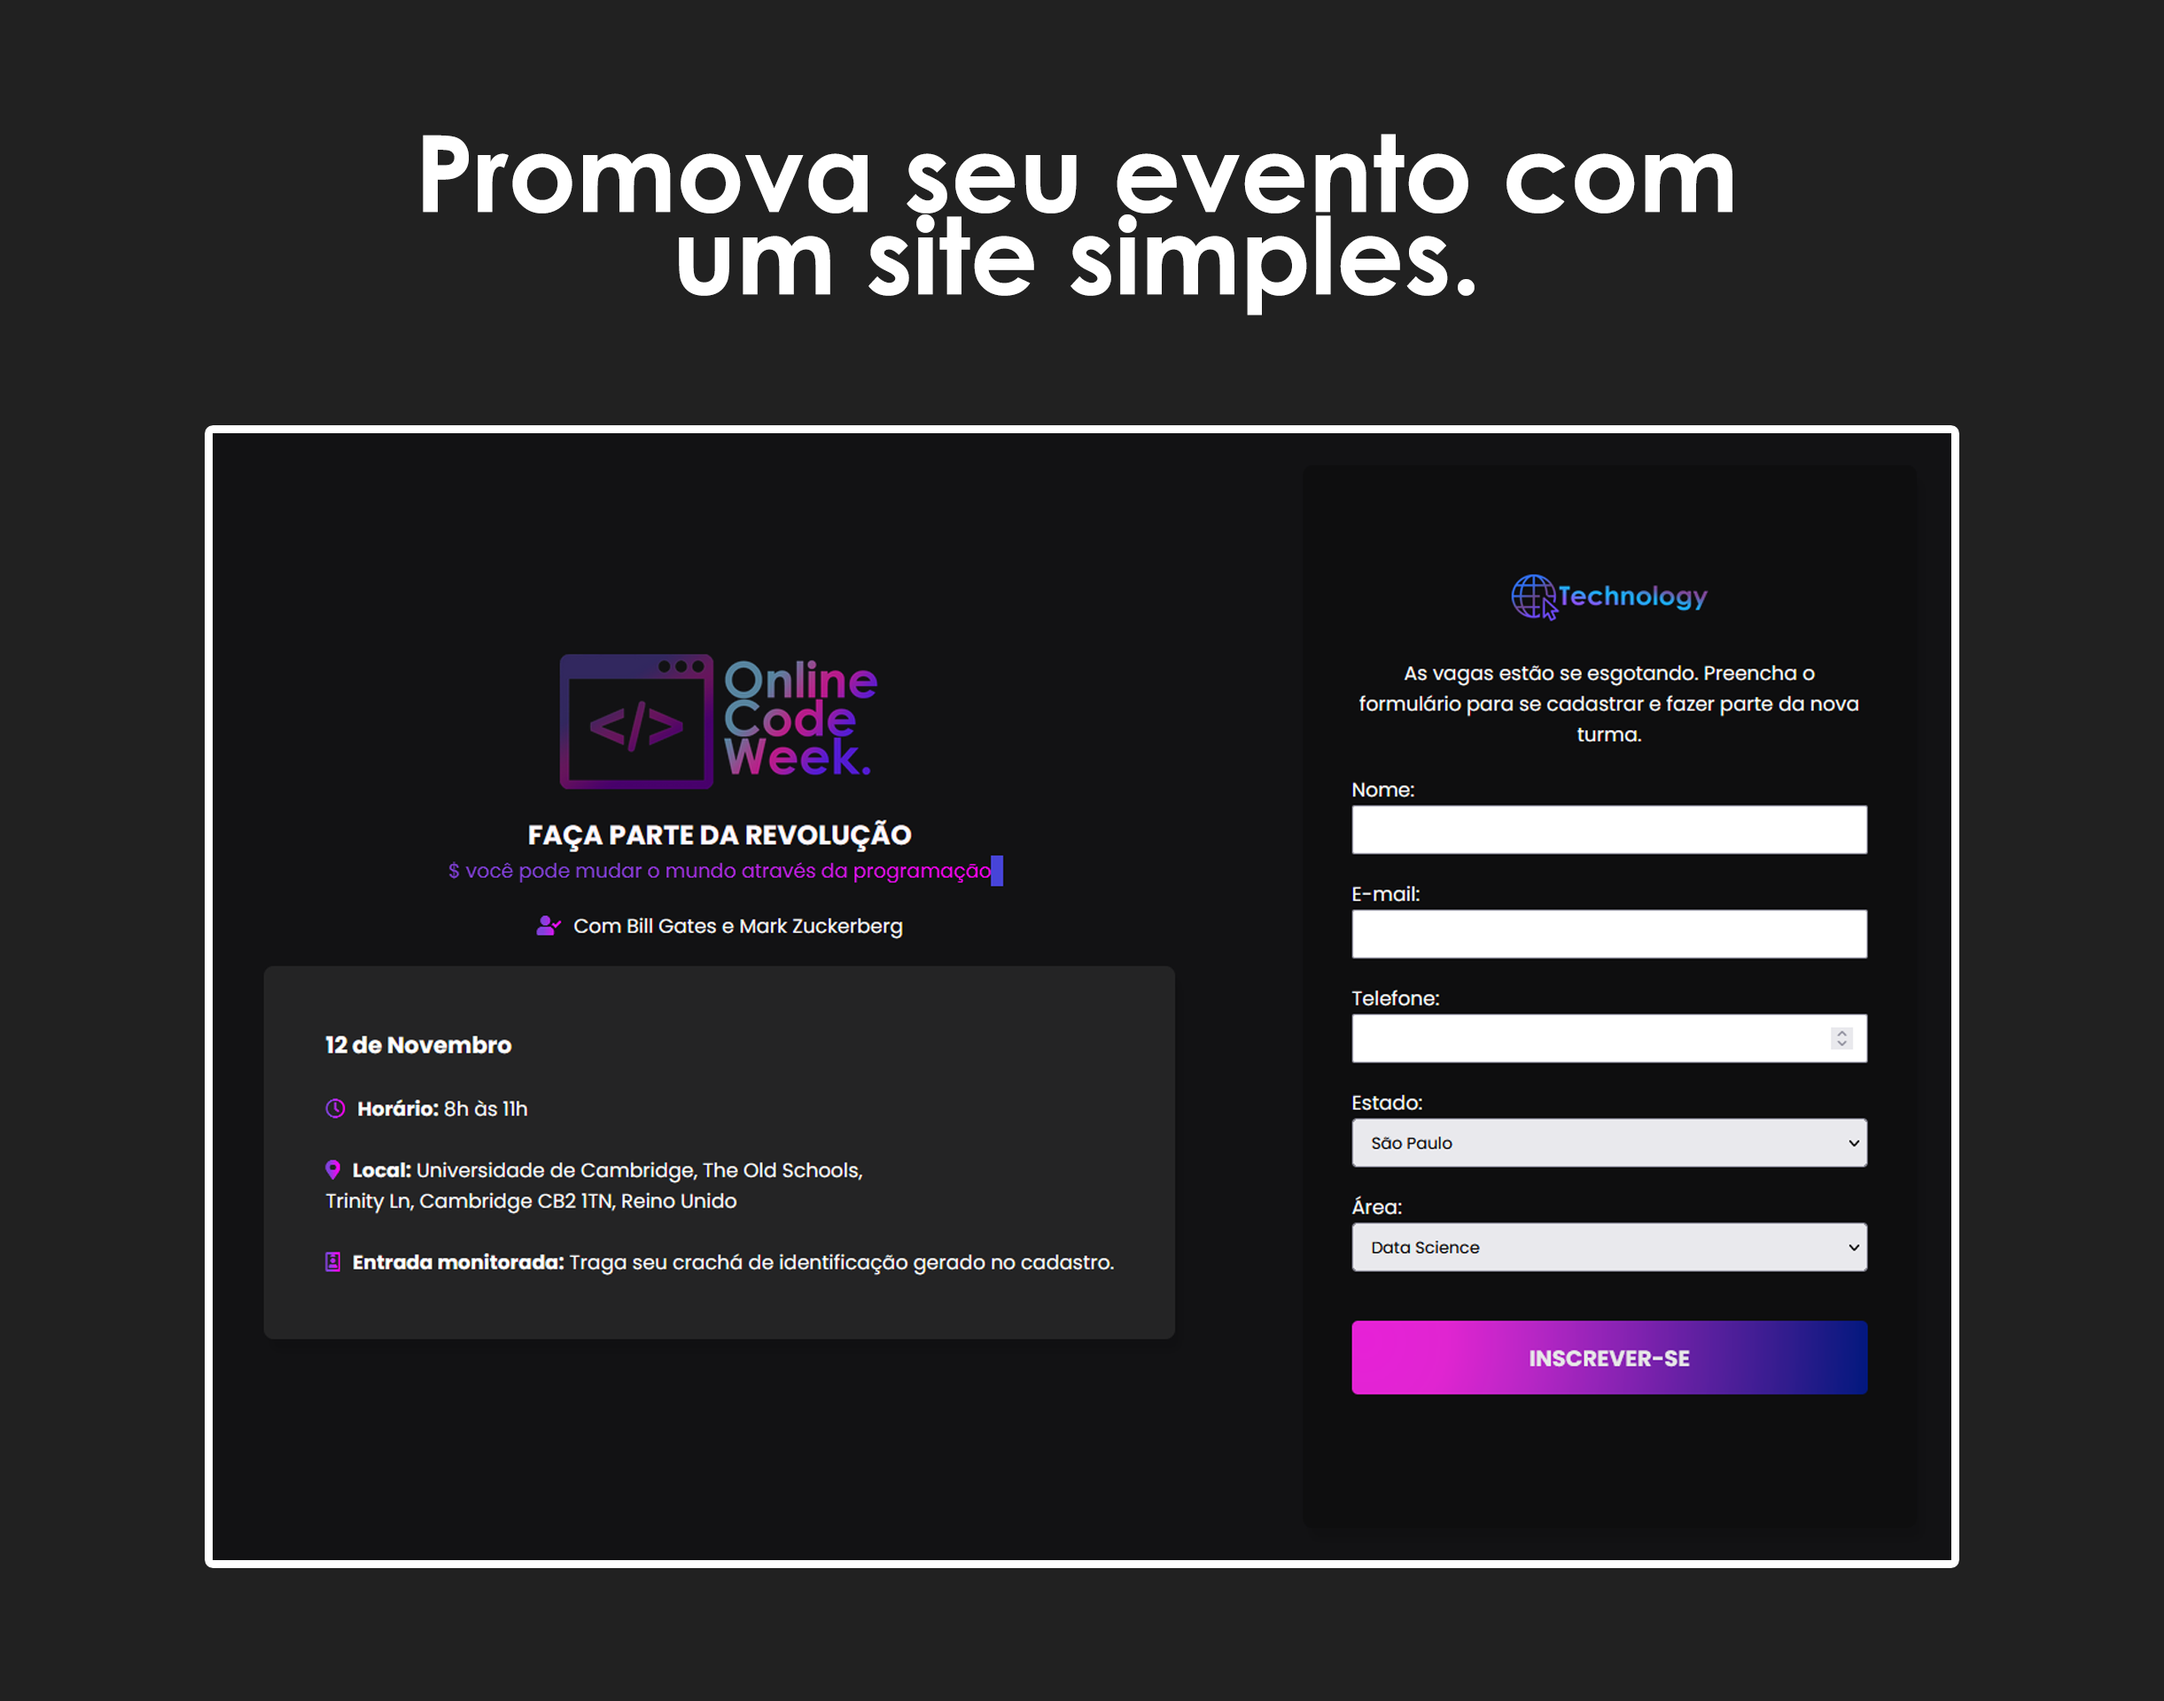
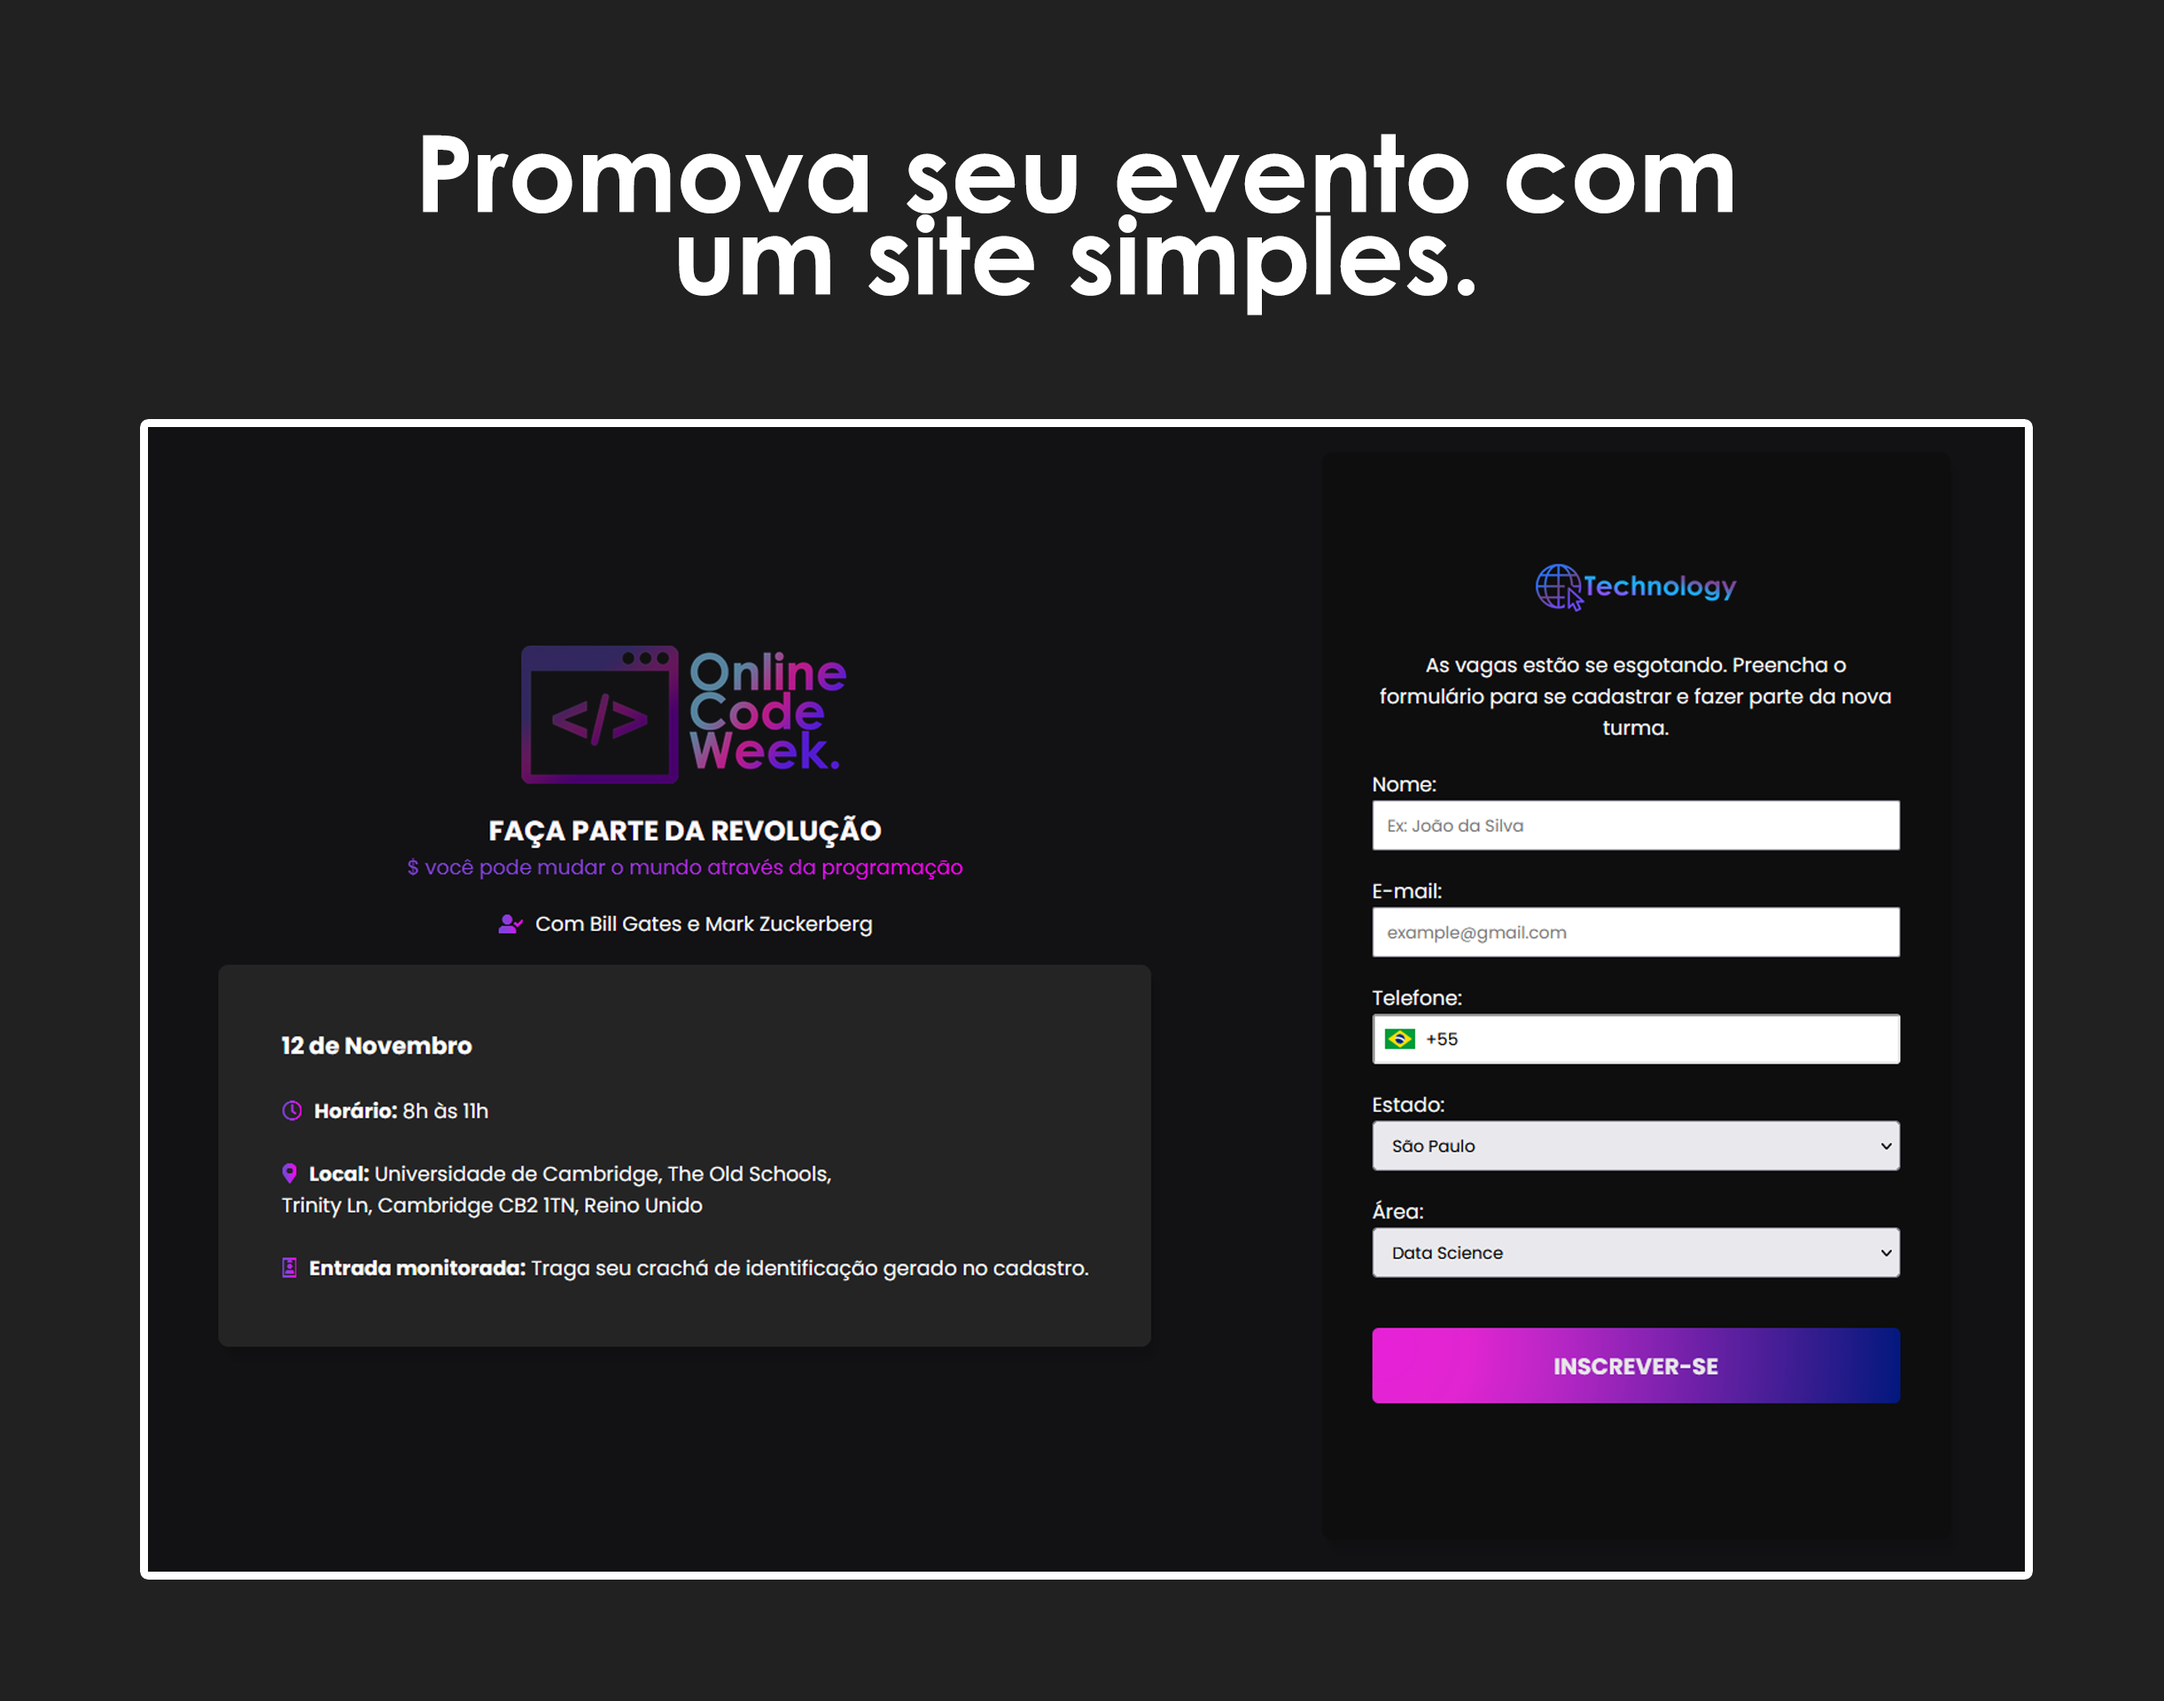
added phone input component

diff --git a/src/styles/PhoneInput.scss b/src/styles/PhoneInput.scss
@@ -1,0 +1,153 @@
+/* CSS variables. */
+
+@import './custom_colors.scss';
+
+:root {
+	--PhoneInput-color--focus: $custom-purple;
+	--PhoneInputInternationalIconPhone-opacity: 0.8;
+	--PhoneInputInternationalIconGlobe-opacity: 0.65;
+	--PhoneInputCountrySelect-marginRight: 0.35em;
+	--PhoneInputCountrySelectArrow-width: 0.3em;
+	
+	--PhoneInputCountrySelectArrow-borderWidth: 1px;
+	--PhoneInputCountrySelectArrow-opacity: 1;
+	--PhoneInputCountrySelectArrow-color: inherit;
+	--PhoneInputCountrySelectArrow-color--focus: var(--PhoneInput-color--focus);
+	--PhoneInputCountrySelectArrow-transform: rotate(45deg);
+	--PhoneInputCountryFlag-aspectRatio: 1.5;
+	--PhoneInputCountryFlag-height: 1em;
+	--PhoneInputCountryFlag-borderWidth: 1px;
+	--PhoneInputCountryFlag-borderColor: $custom-purple;
+	--PhoneInputCountryFlag-borderColor--focus: var(--PhoneInput-color--focus);
+	--PhoneInputCountryFlag-backgroundColor--loading: rgba(0,0,0,0.1);
+}
+
+.PhoneInput {
+	/* This is done to stretch the contents of this component. */
+	display: flex;
+	align-items: center;
+
+	margin-left: -5px;
+}
+
+.PhoneInputInput {
+	/* The phone number input stretches to fill all empty space */
+	flex: 1;
+	/* The phone number input should shrink
+	   to make room for the extension input */
+	min-width: 0;
+	
+	padding-left: 40px !important;
+
+	border: 2;
+	border-radius: 3px;
+}
+
+.PhoneInputCountryIcon {
+	width: calc(var(--PhoneInputCountryFlag-height) * var(--PhoneInputCountryFlag-aspectRatio));
+	height: var(--PhoneInputCountryFlag-height);
+
+	margin-top: 40px;
+	position: absolute;
+	margin-left: 15px;
+}
+
+.PhoneInputCountryIcon--square {
+	width: var(--PhoneInputCountryFlag-height);
+}
+
+.PhoneInputCountryIcon--border {
+	/* Removed `background-color` because when an `<img/>` was still loading
+	   it would show a dark gray rectangle. */
+	/* For some reason the `<img/>` is not stretched to 100% width and height
+	   and sometime there can be seen white pixels of the background at top and bottom. */
+	background-color: var(--PhoneInputCountryFlag-backgroundColor--loading);
+	/* Border is added via `box-shadow` because `border` interferes with `width`/`height`. */
+	/* For some reason the `<img/>` is not stretched to 100% width and height
+	   and sometime there can be seen white pixels of the background at top and bottom,
+	   so an additional "inset" border is added. */
+	box-shadow: 0 0 0 var(--PhoneInputCountryFlag-borderWidth) var(--PhoneInputCountryFlag-borderColor),
+		inset 0 0 0 var(--PhoneInputCountryFlag-borderWidth) var(--PhoneInputCountryFlag-borderColor);
+}
+
+.PhoneInputCountryIconImg {
+	/* Fixes weird vertical space above the flag icon. */
+	/* https://gitlab.com/catamphetamine/react-phone-number-input/-/issues/7#note_348586559 */
+	display: block;
+	/* 3rd party <SVG/> flag icons won't stretch if they have `width` and `height`.
+	   Also, if an <SVG/> icon's aspect ratio was different, it wouldn't fit too. */
+	width: 100%;
+	height: 100%;
+}
+
+.PhoneInputInternationalIconPhone {
+	opacity: var(--PhoneInputInternationalIconPhone-opacity);
+}
+
+.PhoneInputInternationalIconGlobe {
+	opacity: var(--PhoneInputInternationalIconGlobe-opacity);
+}
+
+/* Styling native country `<select/>`. */
+
+.PhoneInputCountry {
+	position: relative;
+	align-self: stretch;
+	display: flex;
+	align-items: center;
+	margin-right: var(--PhoneInputCountrySelect-marginRight);
+}
+
+.PhoneInputCountrySelect {
+	position: absolute;
+
+	height: 30px !important;
+	width: 30px !important;
+	z-index: 1;
+	border: 0;
+	opacity: 0;
+	cursor: pointer;
+
+	margin-top: 20px;
+	position: absolute;
+	margin-left: 14px;
+}
+
+.PhoneInputCountrySelect[disabled] {
+	cursor: default;
+}
+
+.PhoneInputCountrySelectArrow {
+	display: block;
+	content: '';
+	width: var(--PhoneInputCountrySelectArrow-width);
+	height: var(--PhoneInputCountrySelectArrow-width);
+	margin-left: var(--PhoneInputCountrySelectArrow-marginLeft);
+	border-style: solid;
+	border-color: var(--PhoneInputCountrySelectArrow-color);
+	border-top-width: 0;
+	border-bottom-width: var(--PhoneInputCountrySelectArrow-borderWidth);
+	border-left-width: 0;
+	border-right-width: var(--PhoneInputCountrySelectArrow-borderWidth);
+	transform: var(--PhoneInputCountrySelectArrow-transform);
+	opacity: var(--PhoneInputCountrySelectArrow-opacity);
+
+	margin-top: 20px;
+	position: absolute;
+	margin-left: 60px;
+}
+
+.PhoneInputCountrySelect:focus + .PhoneInputCountryIcon + .PhoneInputCountrySelectArrow {
+	opacity: 1;
+	color: var(--PhoneInputCountrySelectArrow-color--focus);
+}
+
+.PhoneInputCountrySelect:focus + .PhoneInputCountryIcon--border {
+	box-shadow: 0 0 0 var(--PhoneInputCountryFlag-borderWidth) var(--PhoneInputCountryFlag-borderColor--focus),
+		inset 0 0 0 var(--PhoneInputCountryFlag-borderWidth) var(--PhoneInputCountryFlag-borderColor--focus);
+}
+
+.PhoneInputCountrySelect:focus + .PhoneInputCountryIcon .PhoneInputInternationalIconGlobe {
+	opacity: 1;
+	color: var(--PhoneInputCountrySelectArrow-color--focus);
+}

diff --git a/src/components/Header/index.jsx b/src/components/Header/index.jsx
@@ -1,0 +1,112 @@
+
+import './styles.scss'
+import eventLogo from '../../assets/images/event-logo.png';
+import companyLogo from '../../assets/images/company-logo.png';
+
+import '../../styles/PhoneInput.scss'
+import PhoneInput from 'react-phone-number-input'
+import { useState } from 'react';
+
+export function Header() {
+
+    const [country, setCountry] = useState()
+
+    return (
+            <header className="header-page">
+                <div className="header-content" id="home">
+                    <div className="header-top-text">
+                        <img width="260px" src={eventLogo} alt="OnlineCodeWeek" />
+
+                    </div>
+
+                    <div className="header-text">
+                        <p>Faça parte da revolução</p>
+                        <span>$ você pode mudar o mundo através da programação</span>
+                    </div>
+
+                    <p className="speakers"><i className="fas fa-user-check"></i>Com Bill Gates e Mark Zuckerberg</p>
+
+
+                    <div className="address">
+                        <h3>12 de Novembro</h3>
+
+                        <br/>
+
+                        <p><i className="far fa-clock"></i><b>Horário:</b> 8h às 11h</p>
+
+                        <br/>
+
+                        <p><i className="fas fa-map-marker-alt"></i><b>Local:</b> Universidade de Cambridge,
+                        The Old Schools, <br/> Trinity Ln, Cambridge CB2 1TN, Reino Unido</p>
+                        
+                        <br/>
+
+                        <p><i className="far fa-id-badge"></i><b>Entrada monitorada:</b> Traga seu crachá de identificação gerado no cadastro.</p>
+                    </div>
+
+                </div>
+
+                <div className="form-card">
+                    <form>
+                        <div className="form-header">
+                            <img width="160px" src={companyLogo} alt="Technology" />
+
+                            <p>As vagas estão se esgotando. Preencha o formulário
+                                para se cadastrar e fazer parte da nova turma.</p>
+                        </div>
+
+                        <div className="form-content">
+                            <div className="form-name">
+                                <label htmlFor="name">Nome:</label>
+                                <input type="text" name="name" placeholder="Ex: João da Silva"/>
+                            </div>
+
+                            <div className="form-email">
+                                <label htmlFor="email">E-mail:</label>
+                                <input type="email" name="email" placeholder="example@gmail.com"/>
+                            </div>
+
+                            {/* <div className="form-phone">
+                                <label htmlFor="phone">Telefone:</label>
+                                <input type="number" name="phone"/>
+                            </div> */}
+
+                            <label htmlFor="phone">Telefone:</label>
+                            <PhoneInput
+                                id="phoneInput"
+                                placeholder="Insira seu número"
+                                defaultCountry="BR"
+                                value={country}
+                                onChange={setCountry}
+                                international
+                                countryCallingCodeEditable={false}
+                            />
+
+                            <div className="form-state">
+                                <label htmlFor="state-select">Estado:</label>
+                                <select name="state-select">
+                                    <option value="webdevelopment" selected>São Paulo</option>
+                                    <option value="datascience">Rio de Janeiro</option>
+                                    <option value="dataengineering">Minas Gerais</option>
+                                </select>
+                            </div>
+
+                            <div className="form-area">
+                                <label htmlFor="area-select">Área:</label>
+                                <select name="area-select">
+                                    <option value="webdevelopment">Web Development</option>
+                                    <option value="datascience" selected>Data Science</option>
+                                    <option value="dataengineering">Data Engineering</option>
+                                </select>
+                            </div>
+
+                            <div className="form-button">
+                                <button>INSCREVER-SE</button>
+                            </div>
+                        </div>
+
+                    </form>
+                </div>
+            </header>
+    )
+}

diff --git a/src/App.tsx b/src/App.tsx
@@ -1,5 +1,5 @@
 import './styles/global.scss'
-import { Header } from "./components/Header";
+import { Header } from "./components/Header/index";
 import { Main } from './components/Main';
 import { Fragment } from 'react';
 import { Footer } from './components/Footer';

diff --git a/src/components/Header/styles.scss b/src/components/Header/styles.scss
@@ -152,4 +152,3 @@
         }
     }
 }
-
